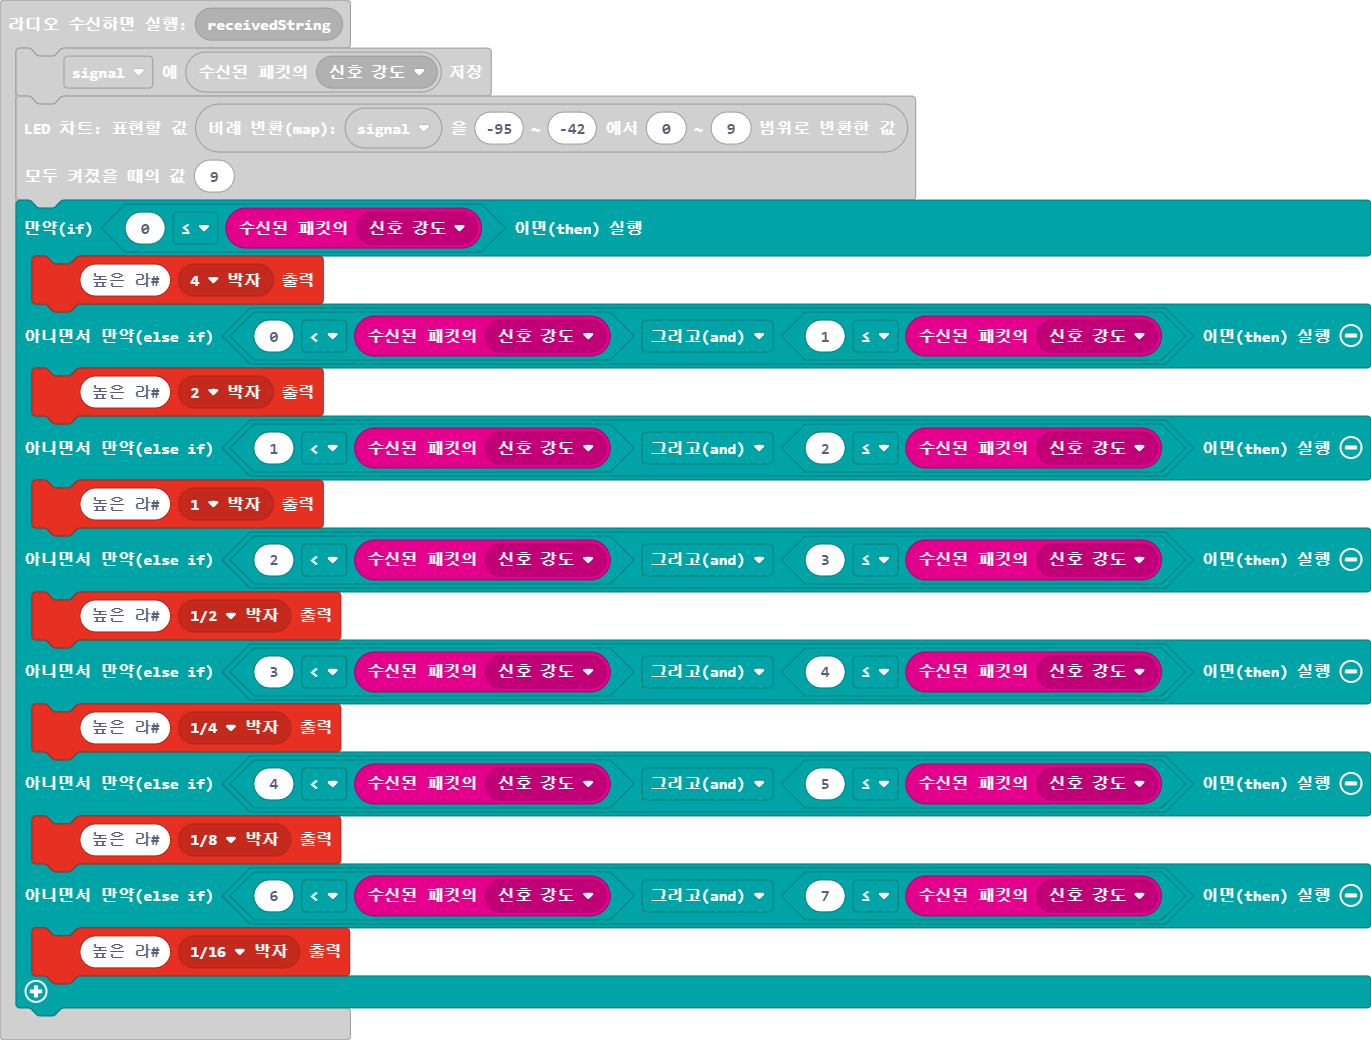
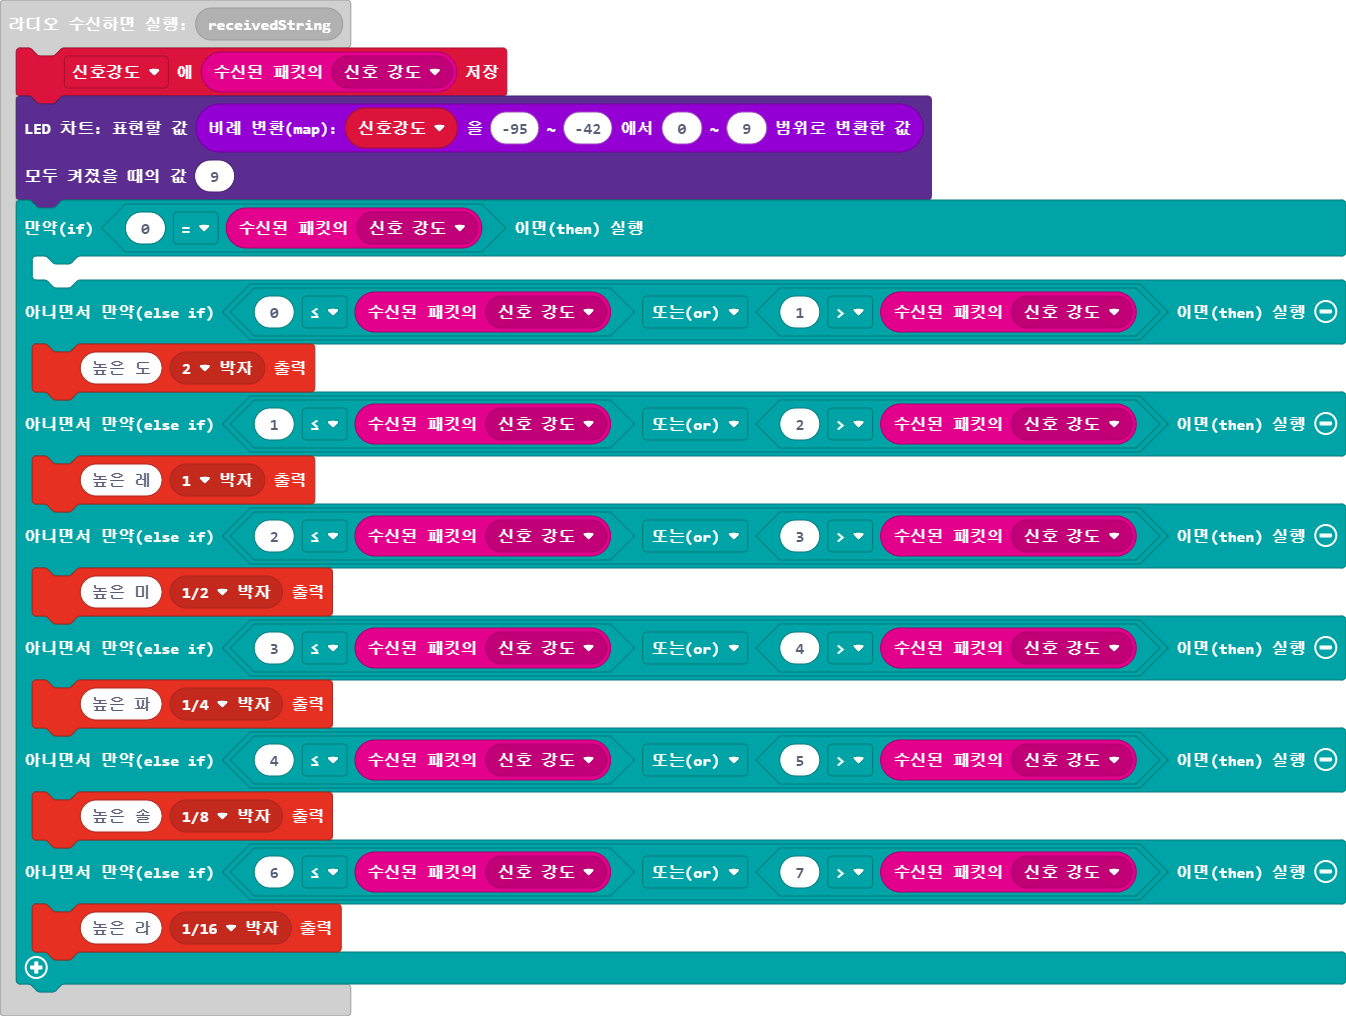
main.blocks, main.ts 업데이트하기

diff --git a/main.ts b/main.ts
@@ -1,24 +1,24 @@
 radio.onReceivedString(function (receivedString) {
-    signal = radio.receivedPacket(RadioPacketProperty.SignalStrength)
+    신호강도 = radio.receivedPacket(RadioPacketProperty.SignalStrength)
     led.plotBarGraph(
-    Math.map(signal, -95, -42, 0, 9),
+    Math.map(신호강도, -95, -42, 0, 9),
     9
     )
-    if (0 <= radio.receivedPacket(RadioPacketProperty.SignalStrength)) {
-        music.playTone(932, music.beat(BeatFraction.Breve))
-    } else if (0 < radio.receivedPacket(RadioPacketProperty.SignalStrength) && 1 <= radio.receivedPacket(RadioPacketProperty.SignalStrength)) {
-        music.playTone(932, music.beat(BeatFraction.Double))
-    } else if (1 < radio.receivedPacket(RadioPacketProperty.SignalStrength) && 2 <= radio.receivedPacket(RadioPacketProperty.SignalStrength)) {
-        music.playTone(932, music.beat(BeatFraction.Whole))
-    } else if (2 < radio.receivedPacket(RadioPacketProperty.SignalStrength) && 3 <= radio.receivedPacket(RadioPacketProperty.SignalStrength)) {
-        music.playTone(932, music.beat(BeatFraction.Half))
-    } else if (3 < radio.receivedPacket(RadioPacketProperty.SignalStrength) && 4 <= radio.receivedPacket(RadioPacketProperty.SignalStrength)) {
-        music.playTone(932, music.beat(BeatFraction.Quarter))
-    } else if (4 < radio.receivedPacket(RadioPacketProperty.SignalStrength) && 5 <= radio.receivedPacket(RadioPacketProperty.SignalStrength)) {
-        music.playTone(932, music.beat(BeatFraction.Eighth))
-    } else if (6 < radio.receivedPacket(RadioPacketProperty.SignalStrength) && 7 <= radio.receivedPacket(RadioPacketProperty.SignalStrength)) {
-        music.playTone(932, music.beat(BeatFraction.Sixteenth))
+    if (0 == radio.receivedPacket(RadioPacketProperty.SignalStrength)) {
+    	
+    } else if (0 <= radio.receivedPacket(RadioPacketProperty.SignalStrength) || 1 > radio.receivedPacket(RadioPacketProperty.SignalStrength)) {
+        music.playTone(523, music.beat(BeatFraction.Double))
+    } else if (1 <= radio.receivedPacket(RadioPacketProperty.SignalStrength) || 2 > radio.receivedPacket(RadioPacketProperty.SignalStrength)) {
+        music.playTone(587, music.beat(BeatFraction.Whole))
+    } else if (2 <= radio.receivedPacket(RadioPacketProperty.SignalStrength) || 3 > radio.receivedPacket(RadioPacketProperty.SignalStrength)) {
+        music.playTone(659, music.beat(BeatFraction.Half))
+    } else if (3 <= radio.receivedPacket(RadioPacketProperty.SignalStrength) || 4 > radio.receivedPacket(RadioPacketProperty.SignalStrength)) {
+        music.playTone(698, music.beat(BeatFraction.Quarter))
+    } else if (4 <= radio.receivedPacket(RadioPacketProperty.SignalStrength) || 5 > radio.receivedPacket(RadioPacketProperty.SignalStrength)) {
+        music.playTone(784, music.beat(BeatFraction.Eighth))
+    } else if (6 <= radio.receivedPacket(RadioPacketProperty.SignalStrength) || 7 > radio.receivedPacket(RadioPacketProperty.SignalStrength)) {
+        music.playTone(880, music.beat(BeatFraction.Sixteenth))
     }
 })
-let signal = 0
+let 신호강도 = 0
 radio.setGroup(1)
